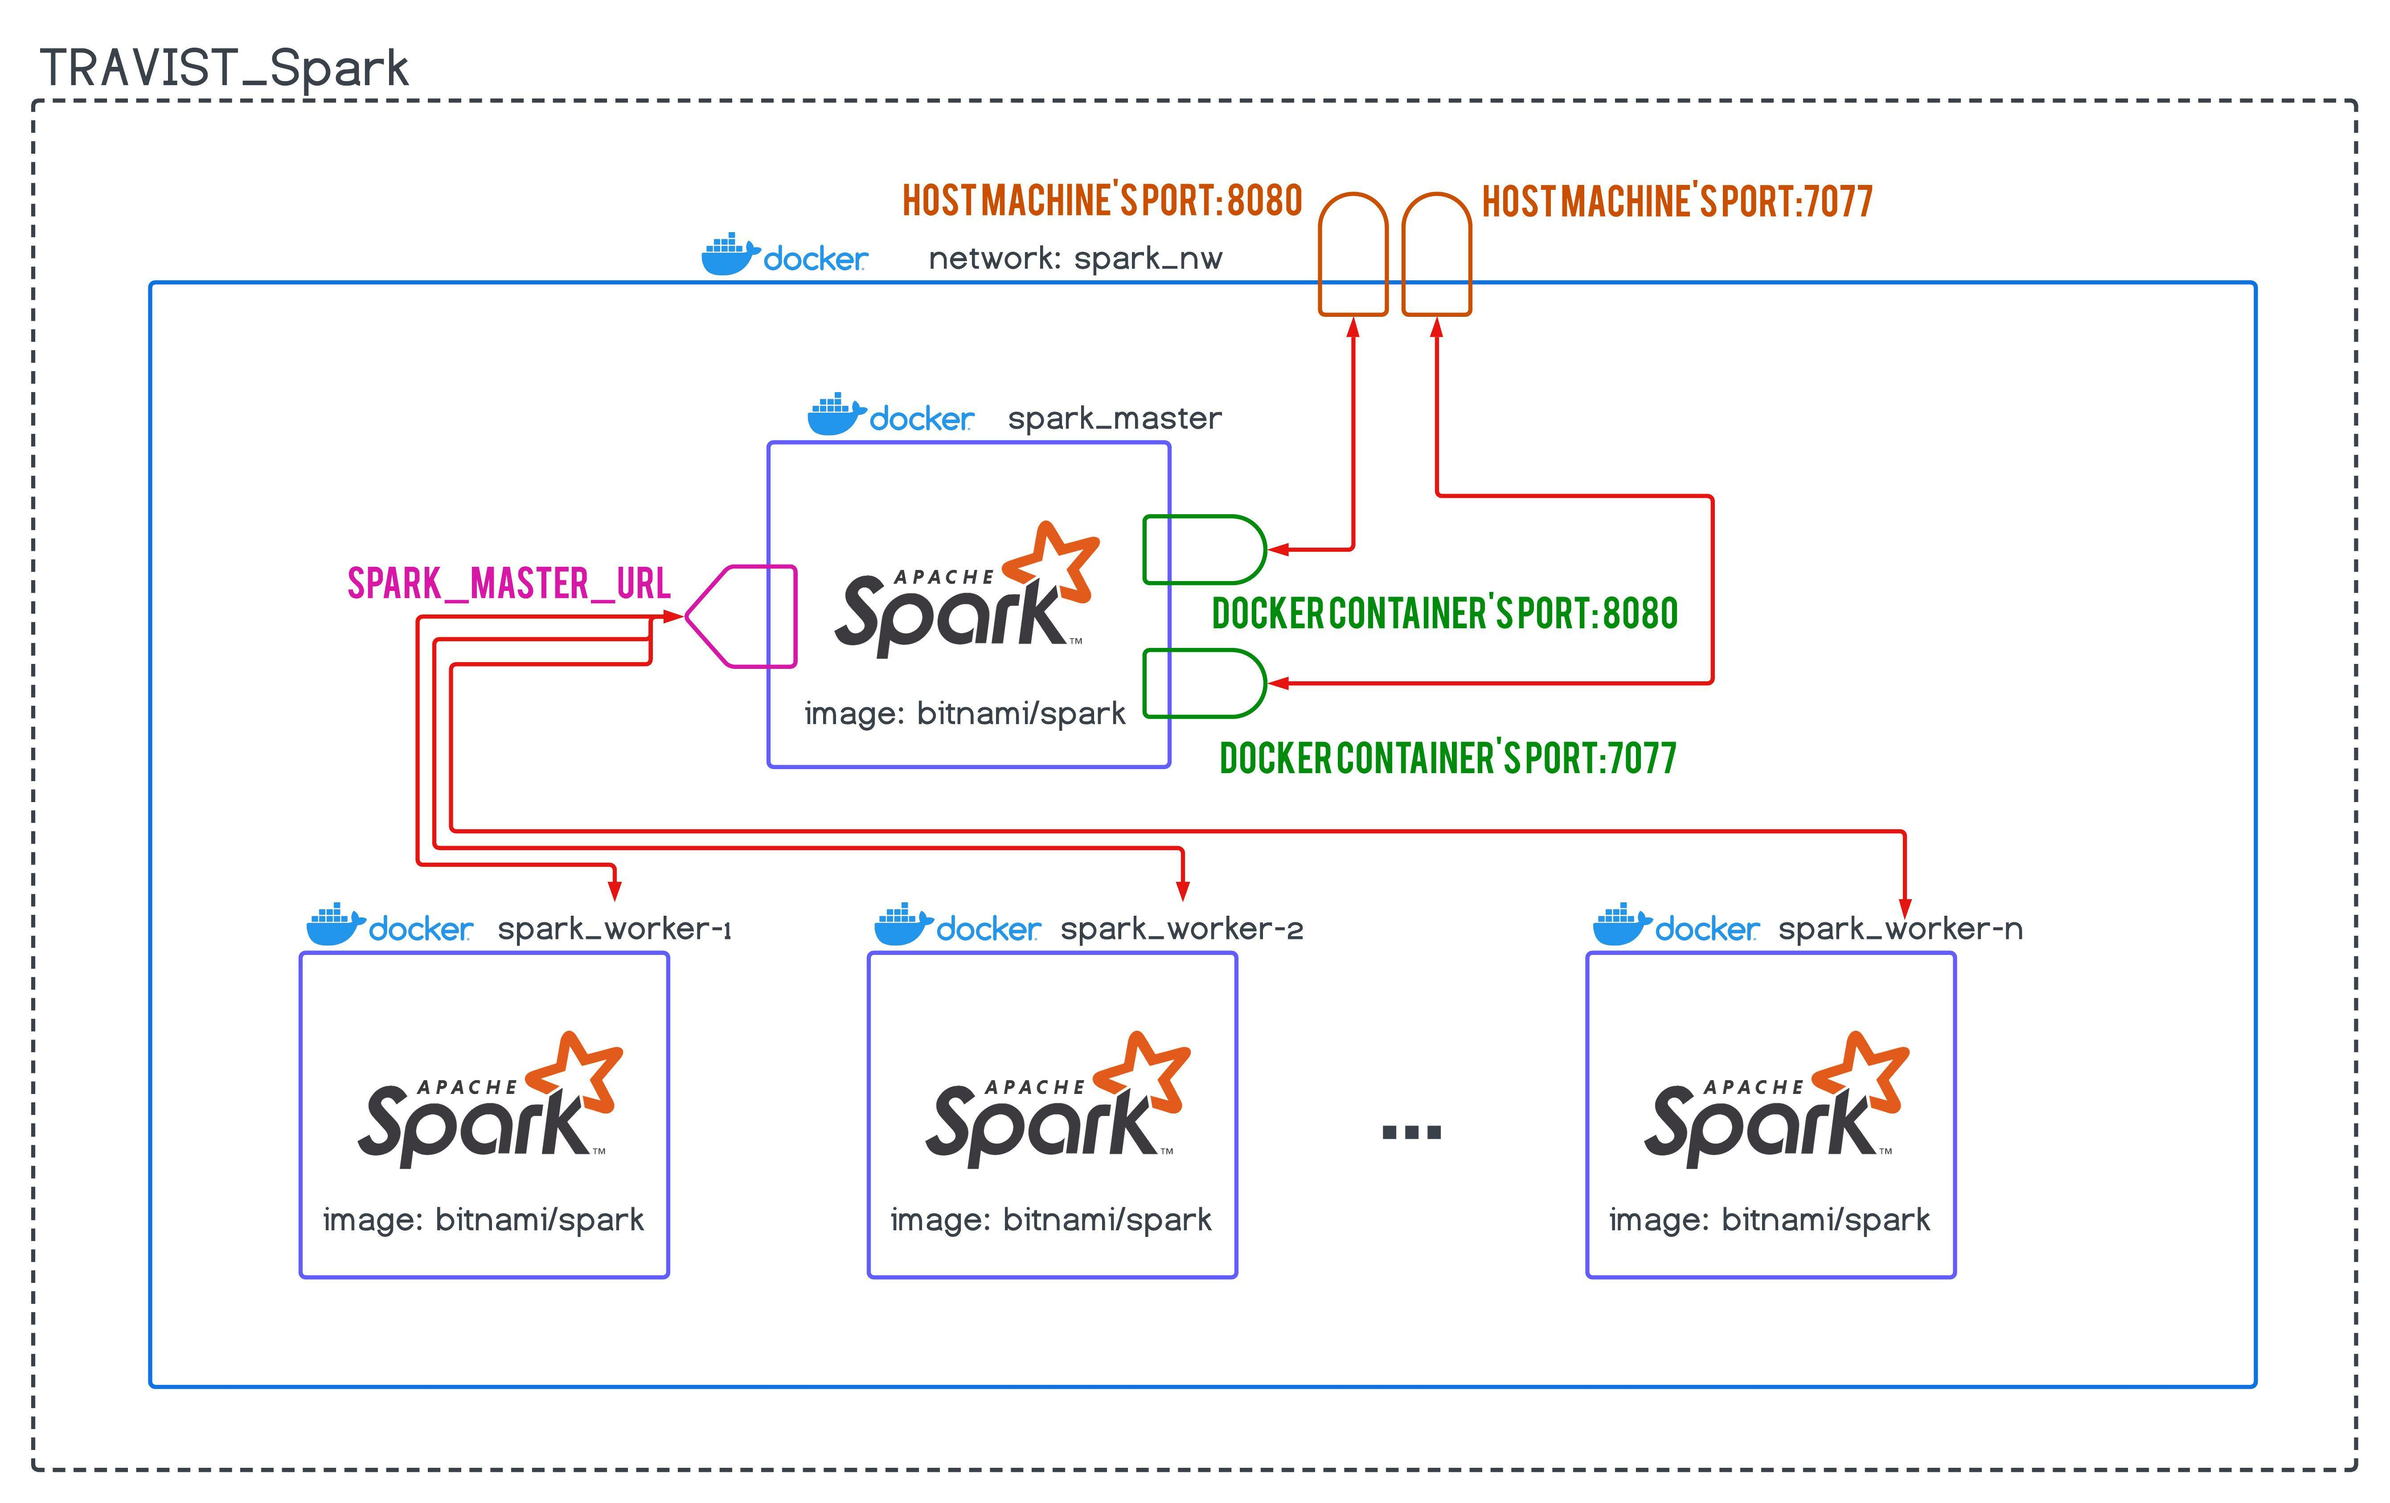
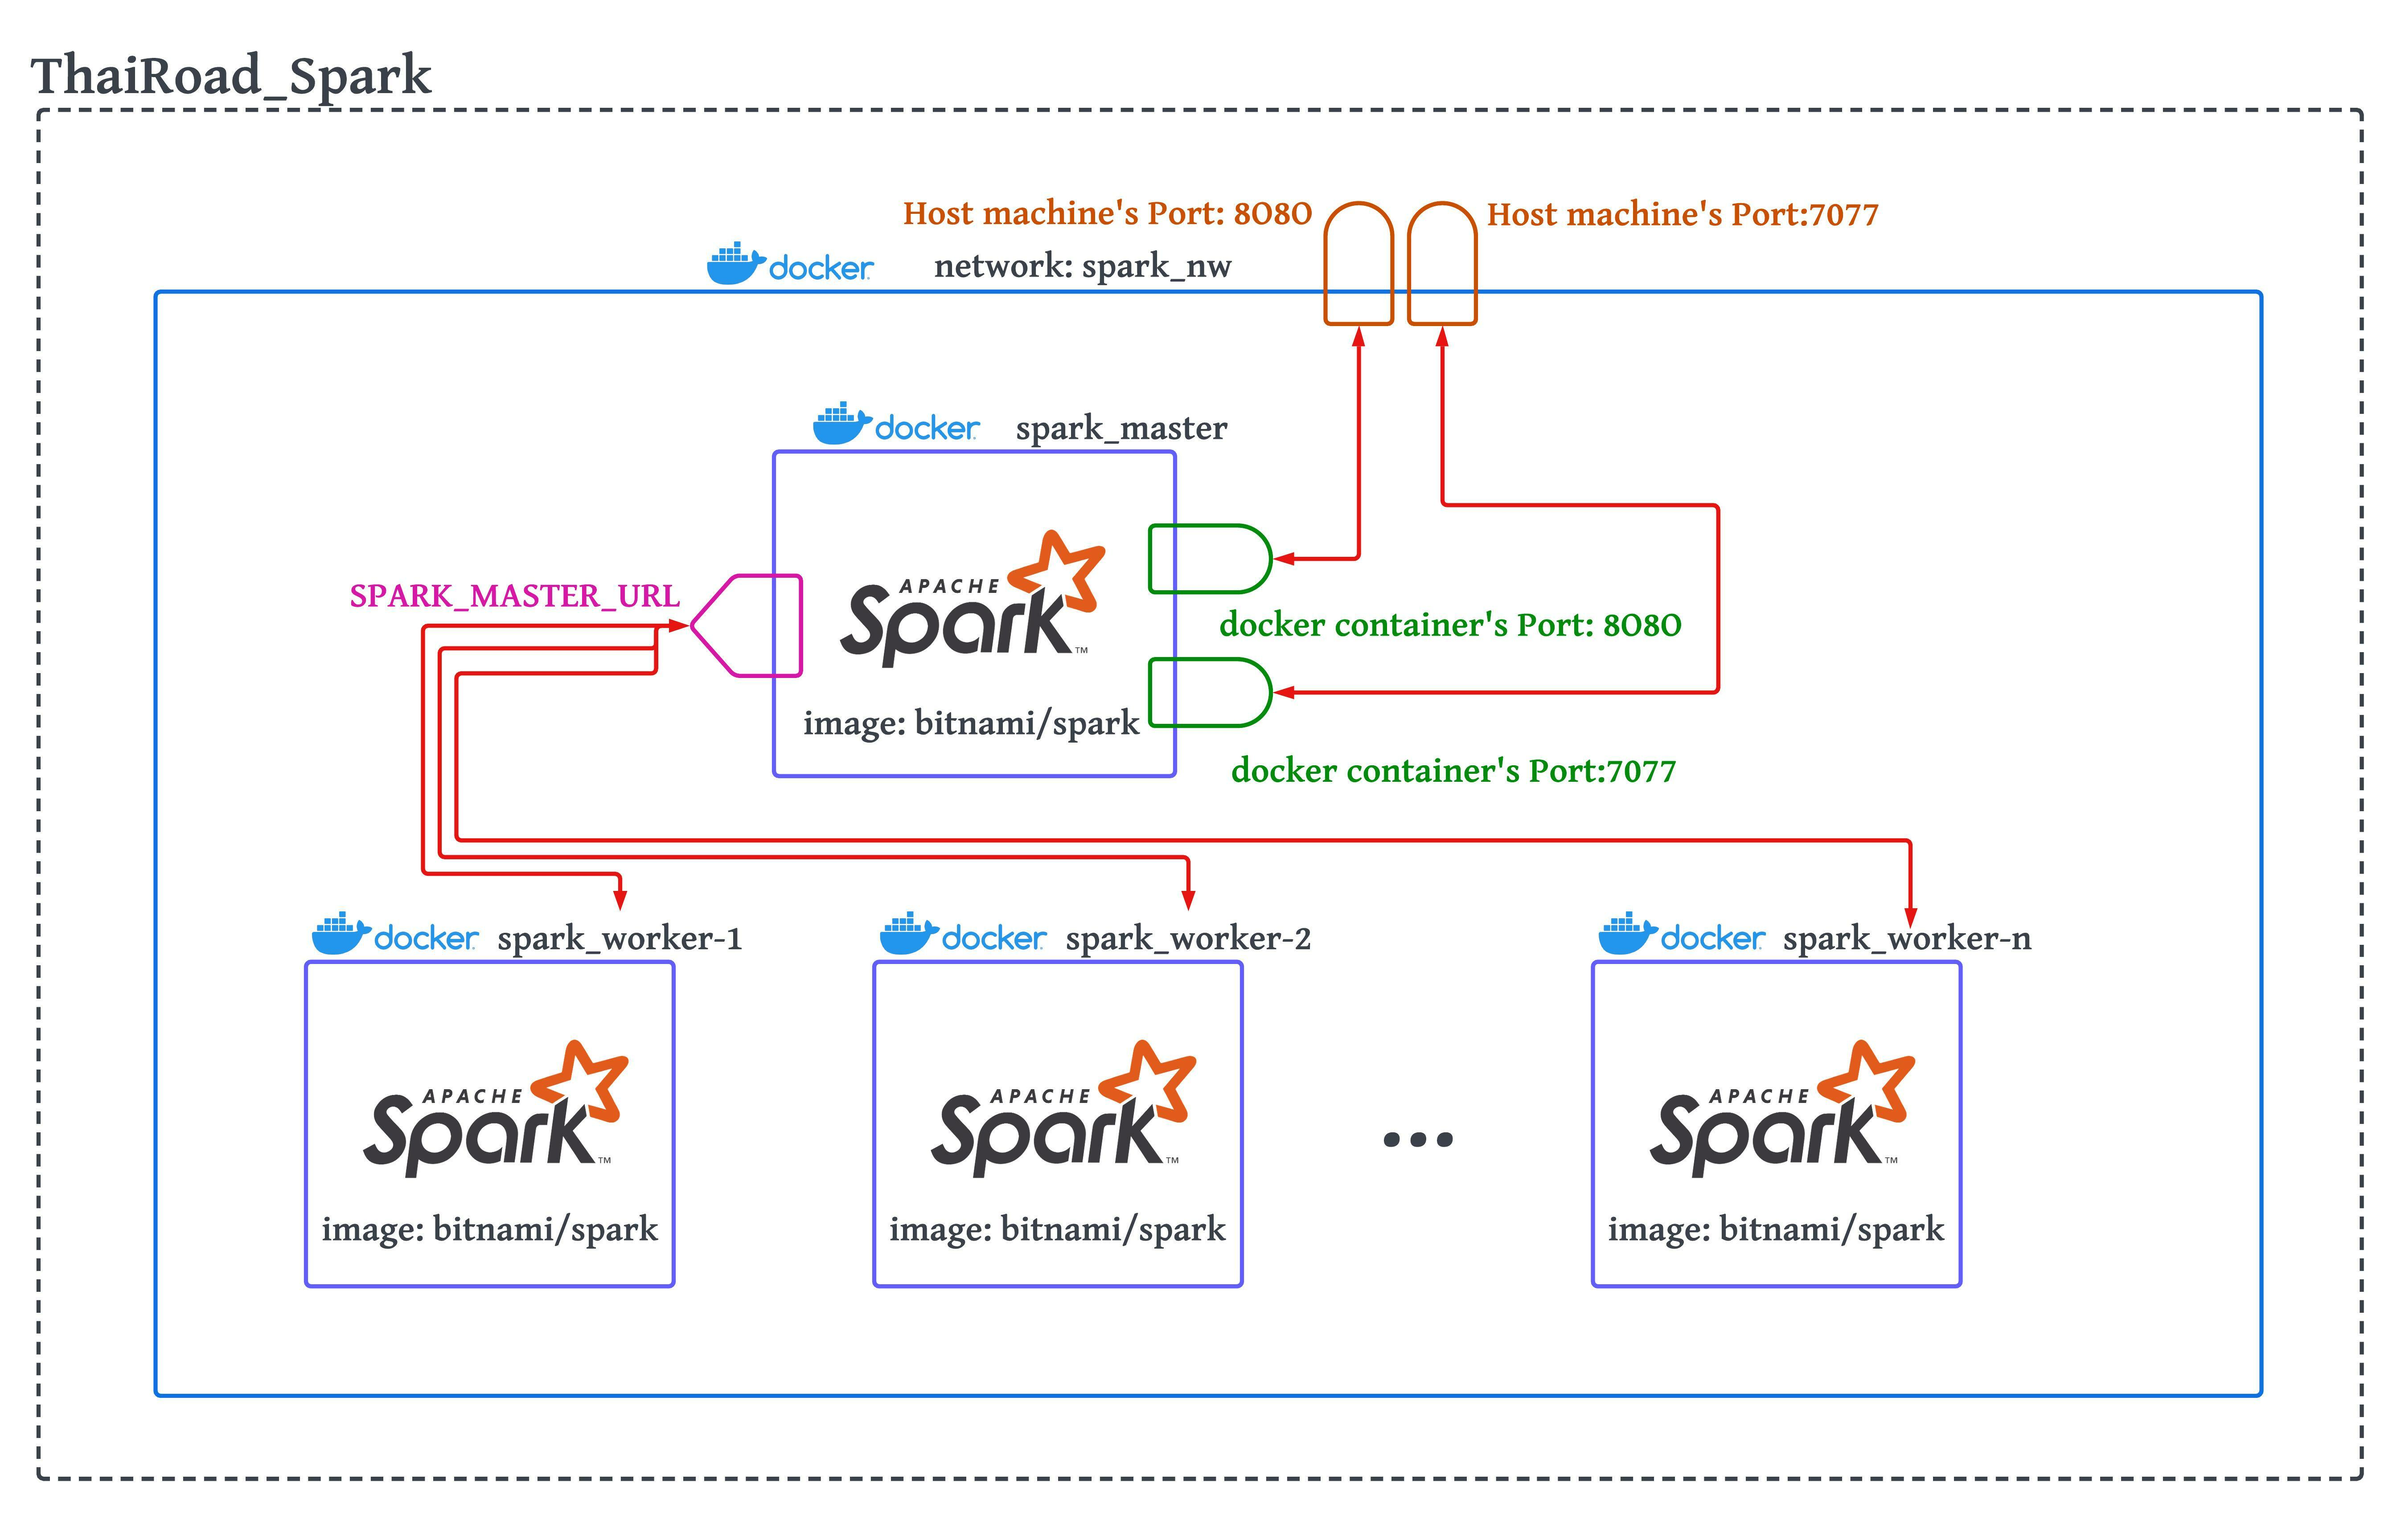
Update Readme

diff --git a/README.md b/README.md
@@ -1,6 +1,6 @@
-# TRAVIST-Spark
+# ThaiRoad-Spark
 
-A big data service for TRAVIST made up of Apache Spark on bitnami Docker
+A big data service for ThaiRoad made up of Apache Spark on bitnami Docker
 
 ## Roadmap
 
@@ -33,9 +33,9 @@ Access Spark's shell with Spark installation
   ./spark-shell $spark_master_url
 ```
 
-| Parameter                                                                             | Type             | Description                                                                            |
-|:--------------------------------------------------------------------------------------|:-----------------|:---------------------------------------------------------------------------------------|
-| `spark_master_url`                                                                    | `string`         | **Required** Your spark master url for spark admin. Example: spark://5bbbc7e372fa:7077 |
+| Parameter          | Type     | Description                                                                            |
+| :----------------- | :------- | :------------------------------------------------------------------------------------- |
+| `spark_master_url` | `string` | **Required** Your spark master url for spark admin. Example: spark://5bbbc7e372fa:7077 |
 
 Access Spark's shell from inside container
 
@@ -43,9 +43,9 @@ Access Spark's shell from inside container
   docker exec -it $spark_conatiner_id_or_name bash
 ```
 
-| Parameter                                                                                             | Type     | Description                                                                                                |
-|:------------------------------------------------------------------------------------------------------| :------- |:-----------------------------------------------------------------------------------------------------------|
-| `spark_conatiner_id_or_name`                                                                          | `string` |  **Required** Your spark master container id or container name. Example: 5bbbc7e372fa or spark-master.     |
+| Parameter                    | Type     | Description                                                                                           |
+| :--------------------------- | :------- | :---------------------------------------------------------------------------------------------------- |
+| `spark_conatiner_id_or_name` | `string` | **Required** Your spark master container id or container name. Example: 5bbbc7e372fa or spark-master. |
 
 Submit an application to the cluster for processing (Need to perform inside spark master container)
 
